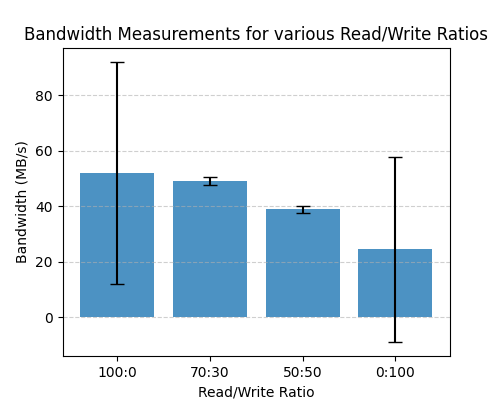
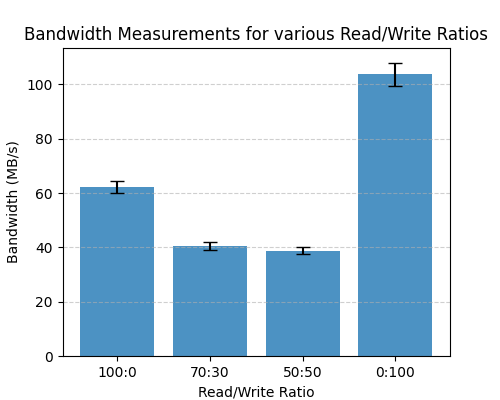
Minor Edits

diff --git a/Project3/parse_data_and_generate_plots.py b/Project3/parse_data_and_generate_plots.py
@@ -65,11 +65,11 @@ def main():
 
     # 100% Read Data
     read_lat = [extracted_data["100 R"]["read"]["lat_mean"], extracted_data["100 R"]["read"]["lat_var"]]
-    read_bw = [extracted_data["100 R"]["read"]["lat_mean"], extracted_data["100 R"]["read"]["lat_var"]]
+    read_bw = [extracted_data["100 R"]["read"]["bw_mean"], extracted_data["100 R"]["read"]["bw_var"]]
 
     # 100% Write Data
     write_lat = [extracted_data["100 W"]["write"]["lat_mean"], extracted_data["100 W"]["write"]["lat_var"]]
-    write_bw = [extracted_data["100 W"]["write"]["lat_mean"], extracted_data["100 W"]["write"]["lat_var"]]
+    write_bw = [extracted_data["100 W"]["write"]["bw_mean"], extracted_data["100 W"]["write"]["bw_var"]]
 
     # 70/30 Read Write Ratio
     read_write_70_30_lat_read = [extracted_data["70R 30W"]["read"]["lat_mean"], extracted_data["70R 30W"]["read"]["lat_var"]]
@@ -78,9 +78,9 @@ def main():
     read_write_70_30_bw_write = [extracted_data["70R 30W"]["write"]["bw_mean"], extracted_data["70R 30W"]["write"]["bw_var"]]
 
     # Now take the combined mean and variances
-    read_write_70_30_lat = [read_write_70_30_lat_read[0]*.7 + 0.7*read_write_70_30_lat_write[0],
+    read_write_70_30_lat = [read_write_70_30_lat_read[0]*.7 + 0.3*read_write_70_30_lat_write[0],
                             dr.get_weighted_var(70/30, read_write_70_30_lat_read[1], read_write_70_30_lat_write[1])]
-    read_write_70_30_bw = [read_write_70_30_bw_read[0]*0.7 + 0.7*read_write_70_30_bw_write[0],
+    read_write_70_30_bw = [read_write_70_30_bw_read[0]*0.7 + 0.3*read_write_70_30_bw_write[0],
                             dr.get_weighted_var(70/30, read_write_70_30_bw_read[1],read_write_70_30_bw_write[1])]
 
     # 50/50 Read Write Ratio

diff --git a/Project3/report.md b/Project3/report.md
@@ -2,5 +2,129 @@
 
 ### Aleksander Krupka
 
+## Methodologies
+
+In this project experiments were conducted to test harddrive read/write latencies and maximum bandwidths.
+
+The program ```fio``` was used for running these tests and collecting data and the data is outputted to a .json file
+with all the results after running.
+
+### Separating Read/Write data
+
+```fio``` automatically separates read/write statistics.  Since we would expect that 
+read/write statistics would result in a dual peaked mean for all data, most plots shown split
+read/write data to avoid this non-normality within the data.  The exception to this is the read/write
+ratio sweep because this is specifically testing the overall latency/bandwidth data.  When combining
+variances for these bar graphs a specific equation needed to be used since you cant just
+add the variances.
+
 ## Zero Queue Baselines
 
+Below are plots while keeping queue depth = 1 and performing random 4Ki random read writes vs 128Ki Sequential Read Writes.
+
+The table below documents the average read/write latencies for each of these tests.
+
+Additionally, the 95th and 99th percentiles for each run are shown in the table.  This table is shown below.
+
+
+| |4Ki Random Reads|4Ki Random Writes|128Ki Sequential Reads|128Ki Sequential Writes|
+|---|---|---|---|---|
+|Average Latency(us)|52.87|18.78|41.05|19.08|
+|Latency variance(us)|48.31|19.35|50.50|17.63|
+|95th Percentile Latency(us)|56.58|20.61|56.06|21.89|
+|99th Percentile Latency(us)|129.54|39.17|127.49|70.14|
+
+One odditity with the data is that the random reads have greater latency than reads.  This should not be the case
+as reads should be faster than writes.
+
+Another note is that the cache should have been bypassed since the fio application was used.
+
+## Block Size and Pattern Sweep
+
+The next experiment conducted was a block size and pattern sweep.  This test
+was conducted by varying the block size while all other conditions were kept the same.
+The latencies were split by read/writes due to the reason stated in the methodologies section
+of the report.
+
+Each plot shows the bandwidth and IOPS on separate axis so that that crossover
+from IOPS to bandwidth can be seen.  The first set of plots show 4Ki random read/writes data
+while the second set of plots the block sweep data over 128Ki sequential read/writes.
+
+![Random Read Write Block Sweep](raw_data/plots/block_size_sweep_random.png)
+![Sequential Read Write Block Sweep](raw_data/plots/block_size_sweep_sequential.png)
+
+For all plots of data, the crossover between IOPS and Bandwidth seems to occur
+around a block size of 48Ki.  The Bandwidth starts low and increases with block size
+while the IOPS start high and decreases with block size.
+
+## Read/Write Matrix Sweep
+
+The next emperiment conducted was varying the read write ratios
+for different runs and reporting both the bandwidth and latency.
+Both bandwidth and latency are plotted using separate graphs since using the
+same bar graph wouldn't be feasible since they are in completely
+different units.  These bar graphs are shown below.
+
+![Latency for Read/Write Ratio Sweeps](raw_data/plots/read_write_ratio_plots_latency.png)
+![Bandwidth for Read/Write Ratio Sweeps](raw_data/plots/read_write_ratio_plots_bandwidth.png)
+
+One confusing thing about the data is that the variance is both latency and bandwidth
+are extremely high.  The data was confirmed that the values were being read in correctly
+by the Python script so it is most likly an issue with fio or test conditions.
+This oddity could also have been due to write buffering or flushes.
+
+As shown though as the read to write ratio decreases, so too does the bandwidth which is most likely
+a result of reads being faster than writes.  One oddity though is that
+for a 100% write ratio the mean bandwidth is much higher than even the 100% read ratio
+breaking the expected pattern.
+
+## Queue Depth / Parallelism Sweep
+
+An experiment on Queue Depth and how it effects bandwidth / latency was also
+conducted in this project.  In this experiment the queue depth was varied by
+powers of 2 from 1 to 32.  One datapoint was collected from each job where the average
+bandwidth was plotted over the average latency.  This is used to explain
+littles law as when latency increases, bandwidth also increases up until a maximum
+which is known as the "knee".  The below plots show this for
+reads and writes separately.
+
+![Littles Law Curve](raw_data/plots/littles_law_curves.png)
+
+As seen, for both reads and write the upper limit for throughput appears to be around
+180MB/s on the computer in which these tests were conducted.
+
+This "knee" occurs due to the queue being empty and being solely the idle read time as
+the queue depth is low enough to the point where the memory could have a larger queue
+depth but it just isnt being used.
+
+## Tail Latencies
+
+The final experiment conducted was a tail latency experiment where the 50th, 95th, 99th, and 99.9th percentiles
+for latencies were collected.  The results of this are shown in a table format where
+the columns are the different percentiles and the rows are the different IO dpeths found from
+the last experiment.  This table of data is shown below is for writes.
+
+| |50th Percentile|95th Percentile|99th Percentile|99.9th Percentile|
+|---|---|---|---|---|
+|Queue Depth = 1|51.97|57.60|132.10|209.92|
+|Queue Depth = 2|51.46|77.31|158.72|1302.53|
+|Queue Depth = 4|53.50|92.67|162.82|220.16|
+|Queue Depth = 8|67.07|121.34|185.34|296.96|
+|Queue Depth = 16|116.22|193.54|321.54|2244.61|
+|Queue Depth = 32|203.78|350.21|432.13|749.57|
+
+And this table is for the various reads.
+
+| |50th Percentile|95th Percentile|99th Percentile|99.9th Percentile|
+|---|---|---|---|---|
+|Queue Depth = 1|17.54|20.35|68.10|132.10|
+|Queue Depth = 2|16.77|22.91|62.21|138.24|
+|Queue Depth = 4|18.30|40.70|67.07|132.10|
+|Queue Depth = 8|37.63|76.29|98.82|183.30|
+|Queue Depth = 16|77.31|150.53|187.39|419.84|
+|Queue Depth = 32|164.86|313.34|374.78|593.92|
+
+One important thing to note about the data is that the 99.9th percentile
+varies widely which is most likely due to outliers within the dataset.
+As shown, the knee latency most likely occurs after a queue depth of around
+8 since that is the latency where the "knee bandwidth" is on the original plot.
